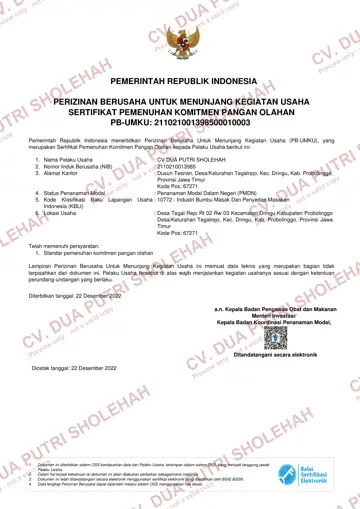
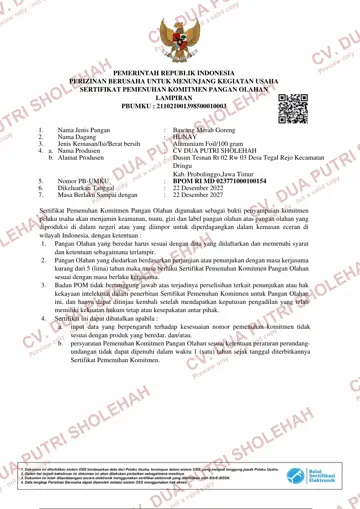
fix: show only the BPOM product annex (page 2)
Page 2 carries the HUNAY product name and the MD number buyers look for;
the OSS cover page and obligations page are no longer shown.

Changed region(s): [[0.0611, 0.0295, 0.9472, 0.7367], [0.0306, 0.8841, 0.9778, 0.9725]]

diff --git a/src/lib/company.ts b/src/lib/company.ts
@@ -27,7 +27,7 @@ export type CertificateDocument = {
 
 export const CERTIFICATE_DOCUMENTS: CertificateDocument[] = [
   { slug: "haccp", name: "HACCP", issuer: "LMS Assessments Ltd (UK)", number: "ID250517011U", pages: 1 },
-  { slug: "bpom", name: "BPOM MD", issuer: "Badan POM RI", number: "MD 023771000100154", pages: 2 },
+  { slug: "bpom", name: "BPOM MD", issuer: "Badan POM RI", number: "MD 023771000100154", pages: 1 },
   { slug: "fda", name: "US FDA Registration", issuer: "Integrated Assessment Services", number: "19358011222", pages: 1 },
   { slug: "gs1", name: "GS1 Barcode", issuer: "GS1 Indonesia", number: "Prefix 899702467", pages: 1 },
   { slug: "gap", name: "GAP (Good Agricultural Practice)", issuer: "Dinas Pertanian Jawa Timur", number: "GAP.01-35.13.4-II.008", pages: 2 },

diff --git a/scripts/watermark-certificates.py b/scripts/watermark-certificates.py
@@ -26,7 +26,7 @@ MAX_WIDTH = 1100  # readable on screen, too small for a convincing print
 # output slug -> (source PDF, pages to render, 0-based)
 SOURCES = {
     "haccp": ("HACCP.NEW CV DUA PUTRI SHOLEHAH.pdf", [0]),
-    "bpom": ("BPOM MD,Al Foil Fried Shallot.pdf", [0, 1]),
+    "bpom": ("BPOM MD,Al Foil Fried Shallot.pdf", [1]),  # page 2: product annex with the MD number
     "fda": ("FDA CV.pdf", [0]),
     "gap": ("GAP.pdf", [0, 1]),
     "gs1": ("GS1 New.pdf", [0]),
